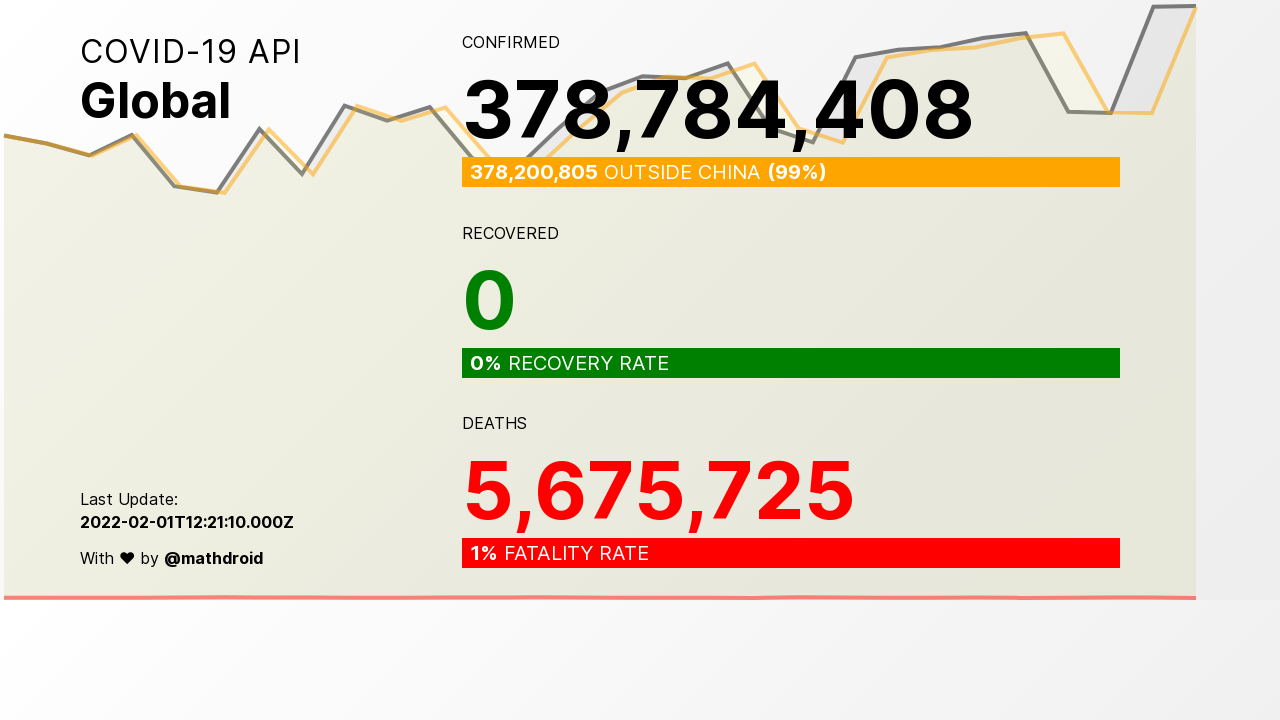
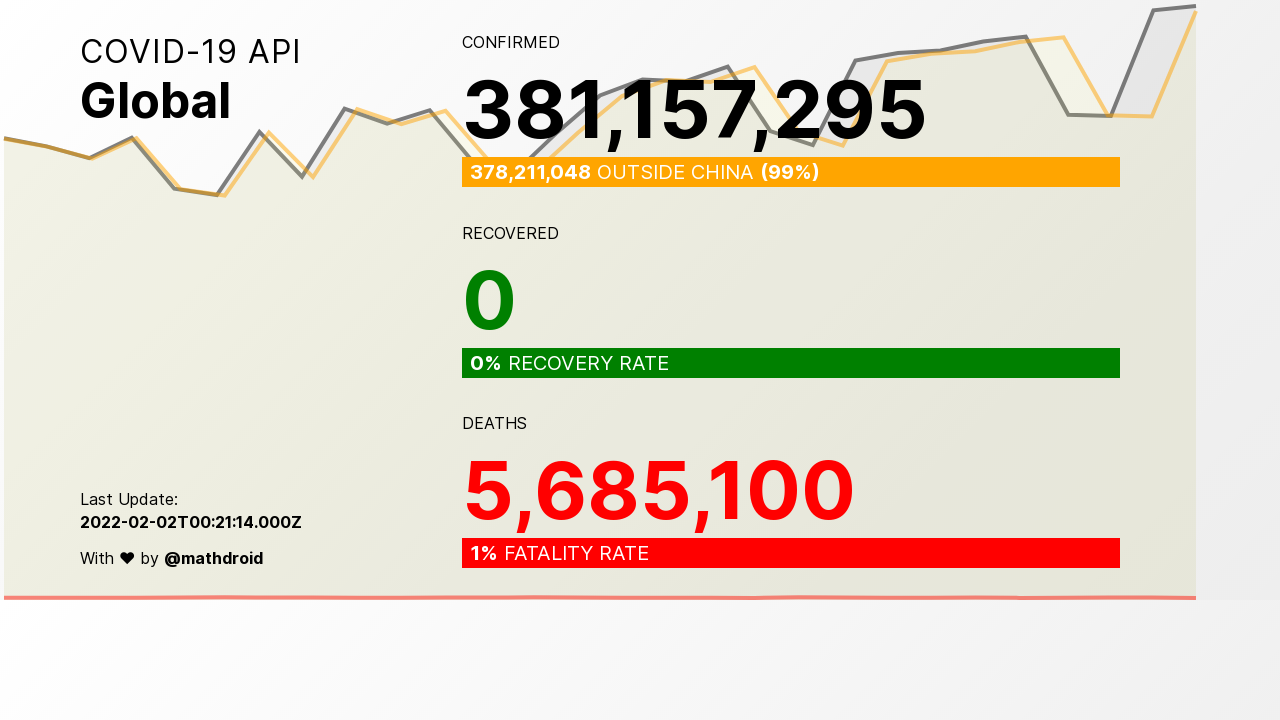
Add changes

diff --git a/README.md b/README.md
@@ -1,6 +1,6 @@
 # store covid daily api as json data
 
-- last cronjob : Tuesday, 01 February 2022 13:16:48
+- last cronjob : Wednesday, 02 February 2022 00:48:09
 - status og cron : success
 - status daily cron : success
       
